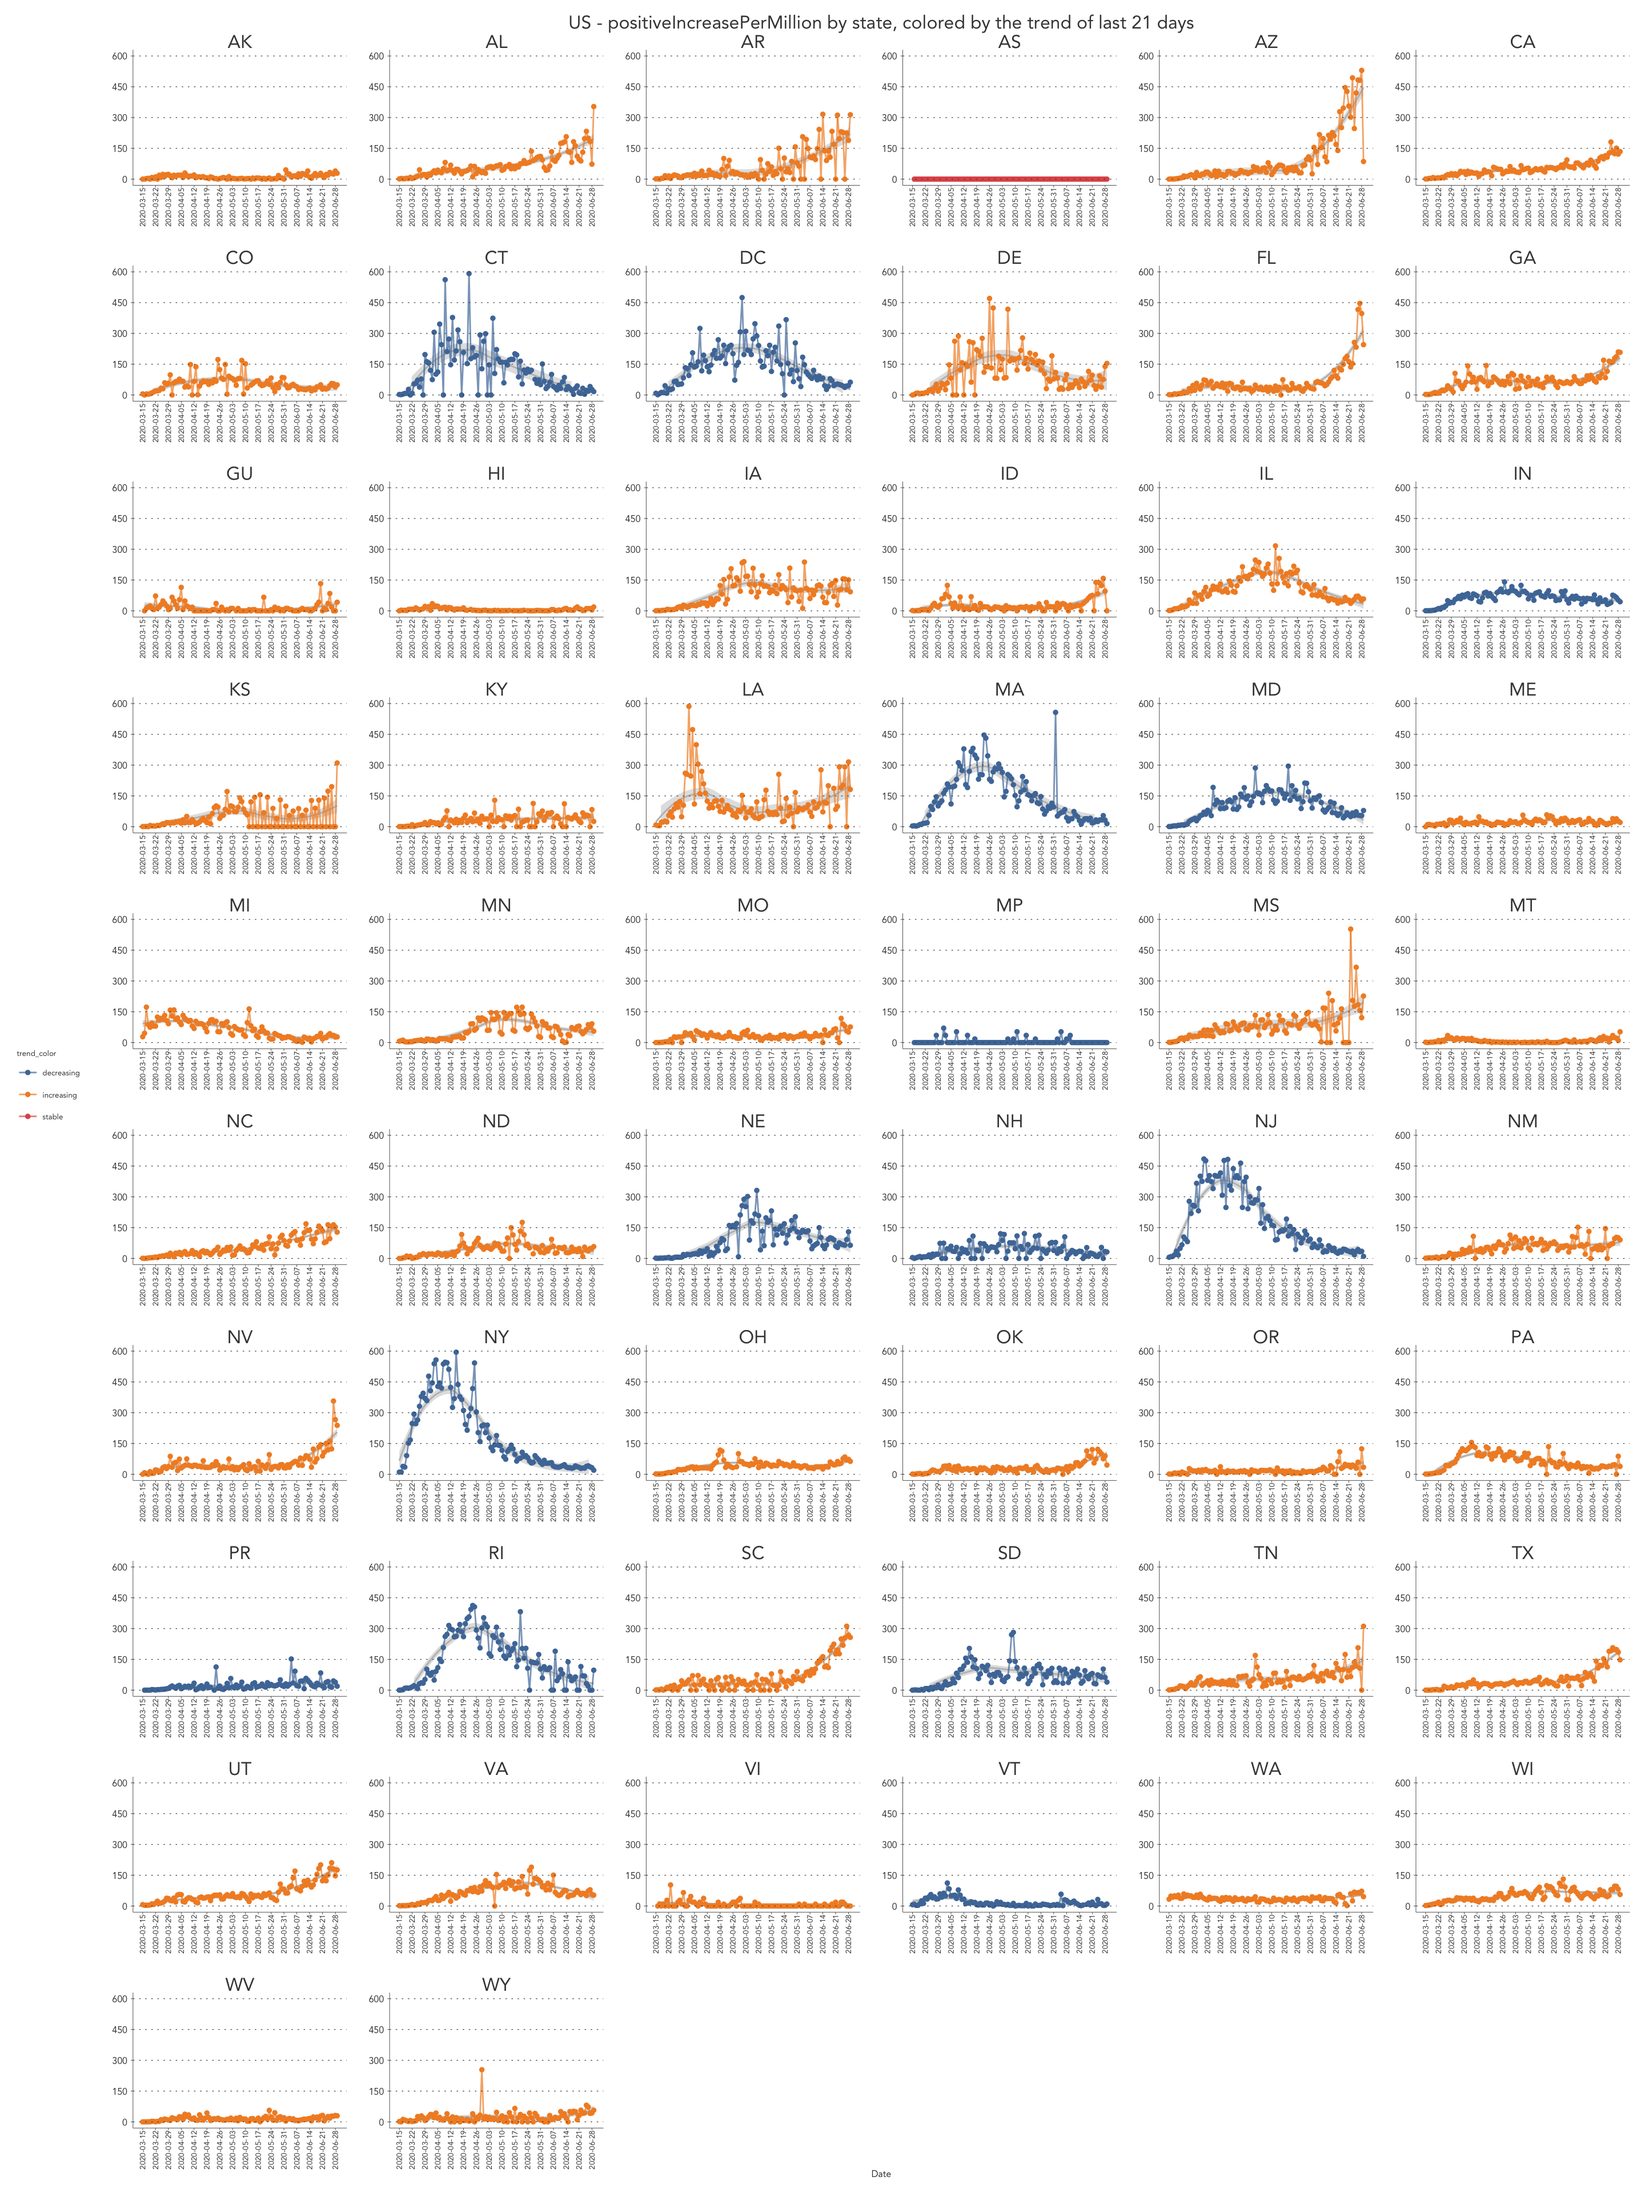
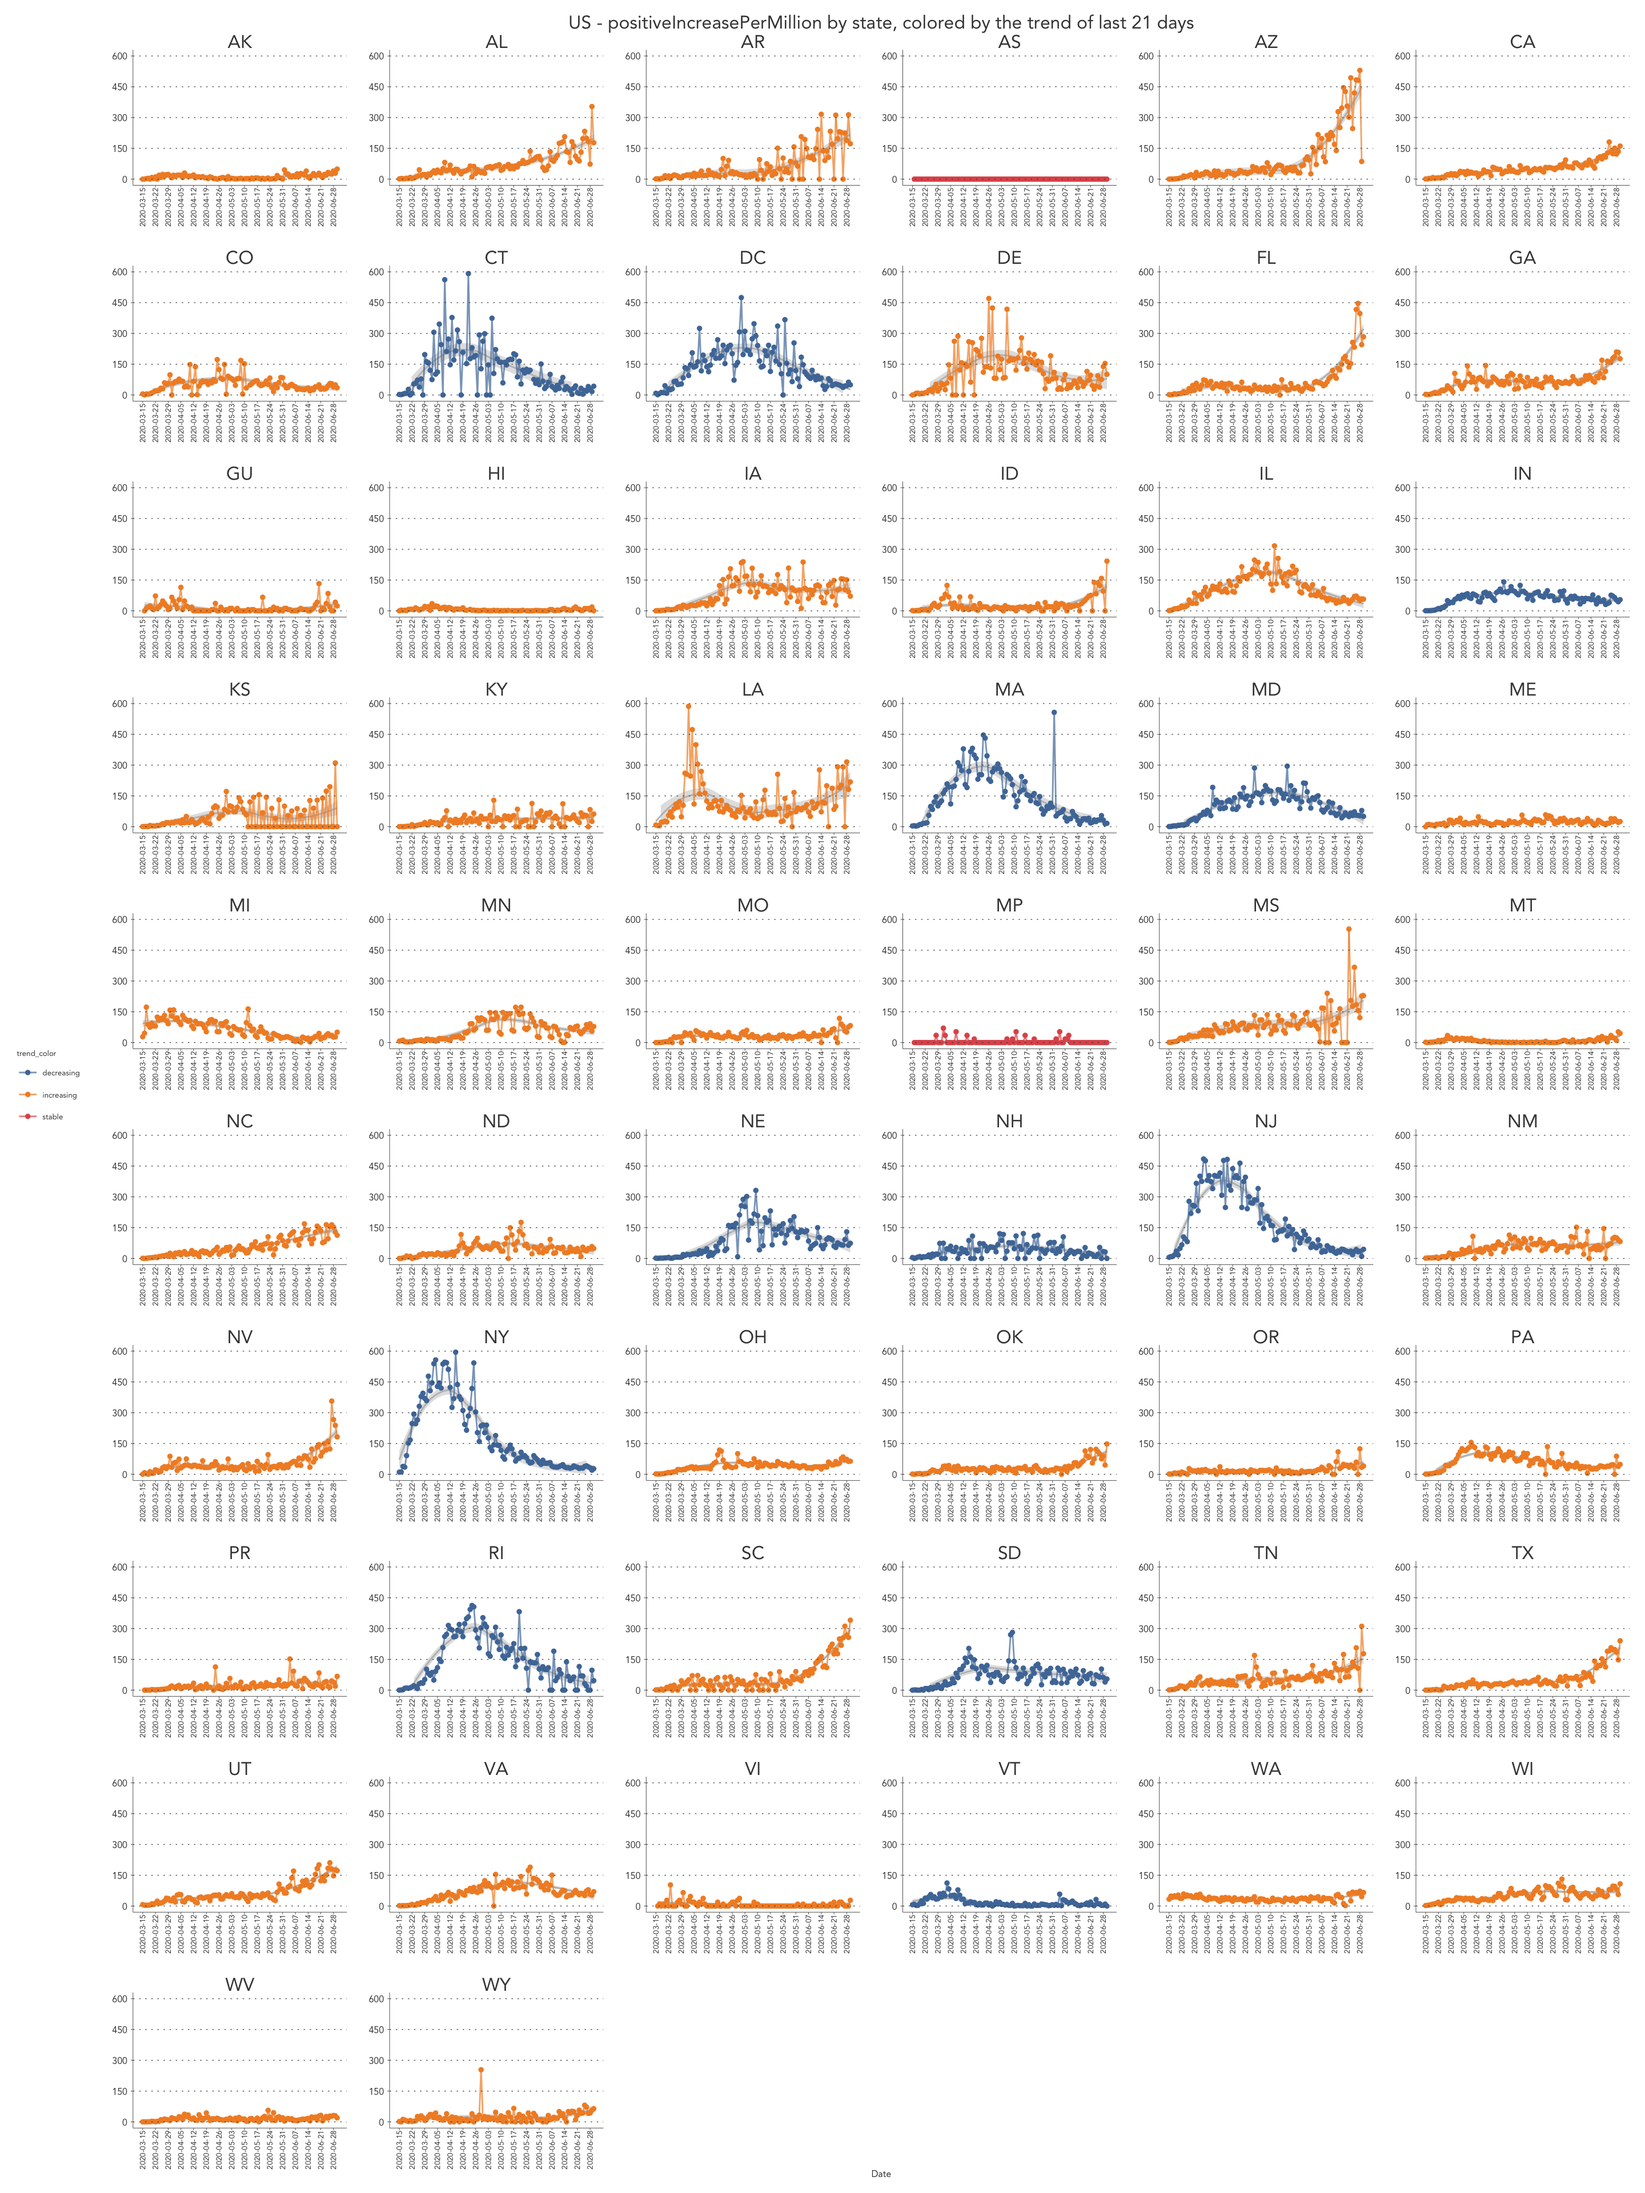
0630 up

diff --git a/covid19-vis.html b/covid19-vis.html
@@ -305,22 +305,22 @@ population
 <tbody>
 <tr>
 <td style="text-align:left;">
-2020-06-29
+2020-06-30
 </td>
 <td style="text-align:left;">
 AK
 </td>
 <td style="text-align:right;">
-904
+940
 </td>
 <td style="text-align:right;">
-107805
+111245
 </td>
 <td style="text-align:right;">
 0
 </td>
 <td style="text-align:right;">
-16
+18
 </td>
 <td style="text-align:right;">
 0
@@ -338,7 +338,7 @@ AK
 0
 </td>
 <td style="text-align:right;">
-525
+526
 </td>
 <td style="text-align:left;">
 A
@@ -362,7 +362,7 @@ A
 2020-06-29T00:00:00Z
 </td>
 <td style="text-align:right;">
-108709
+112185
 </td>
 <td style="text-align:right;">
 0
@@ -377,22 +377,22 @@ A
 2
 </td>
 <td style="text-align:right;">
-21
+36
 </td>
 <td style="text-align:right;">
-388
+3440
 </td>
 <td style="text-align:right;">
-108709
+112185
 </td>
 <td style="text-align:right;">
-108709
+112185
 </td>
 <td style="text-align:right;">
-409
+3476
 </td>
 <td style="text-align:right;">
-108709
+112185
 </td>
 <td style="text-align:right;">
 0
@@ -401,7 +401,7 @@ A
 0
 </td>
 <td style="text-align:left;">
-a86a3dc4bfbba3e423434858dd4e5230e6ba9753
+c5005ccb9df1aac9b5921115fc05931c3b67d41c
 </td>
 <td style="text-align:right;">
 0
@@ -427,37 +427,37 @@ a86a3dc4bfbba3e423434858dd4e5230e6ba9753
 </tr>
 <tr>
 <td style="text-align:left;">
-2020-06-29
+2020-06-30
 </td>
 <td style="text-align:left;">
 AL
 </td>
 <td style="text-align:right;">
-37175
+38045
 </td>
 <td style="text-align:right;">
-356118
-</td>
-<td style="text-align:right;">
-0
-</td>
-<td style="text-align:right;">
-715
-</td>
-<td style="text-align:right;">
-2725
+368607
 </td>
 <td style="text-align:right;">
 0
 </td>
 <td style="text-align:right;">
-801
+776
+</td>
+<td style="text-align:right;">
+2769
 </td>
 <td style="text-align:right;">
 0
 </td>
 <td style="text-align:right;">
-457
+806
+</td>
+<td style="text-align:right;">
+0
+</td>
+<td style="text-align:right;">
+458
 </td>
 <td style="text-align:right;">
 18866
@@ -466,22 +466,22 @@ AL
 B
 </td>
 <td style="text-align:left;">
-6/29/2020 11:00
+6/30/2020 11:00
 </td>
 <td style="text-align:left;">
-2020-06-29T11:00:00Z
+2020-06-30T11:00:00Z
 </td>
 <td style="text-align:left;">
-06/29 07:00
+06/30 07:00
 </td>
 <td style="text-align:right;">
-929
+950
 </td>
 <td style="text-align:right;">
-2725
+2769
 </td>
 <td style="text-align:left;">
-2020-06-29T11:00:00Z
+2020-06-30T11:00:00Z
 </td>
 <td style="text-align:right;">
 0
@@ -493,37 +493,37 @@ B
 0
 </td>
 <td style="text-align:right;">
-36682
+37536
 </td>
 <td style="text-align:right;">
 1
 </td>
 <td style="text-align:right;">
-1734
+870
 </td>
 <td style="text-align:right;">
-5279
+12489
 </td>
 <td style="text-align:right;">
-393293
+406652
 </td>
 <td style="text-align:right;">
-393293
+406652
 </td>
 <td style="text-align:right;">
-7013
+13359
 </td>
 <td style="text-align:right;">
-393293
+406652
 </td>
 <td style="text-align:right;">
-10
+21
 </td>
 <td style="text-align:right;">
-22
+44
 </td>
 <td style="text-align:left;">
-de21472ac462718d75201c8e93e01f28b9542e9f
+fdfdc3408c4025a5fe62edd82fc96917bbff72c9
 </td>
 <td style="text-align:right;">
 0
@@ -549,61 +549,61 @@ de21472ac462718d75201c8e93e01f28b9542e9f
 </tr>
 <tr>
 <td style="text-align:left;">
-2020-06-29
+2020-06-30
 </td>
 <td style="text-align:left;">
 AR
 </td>
 <td style="text-align:right;">
-20257
+20777
 </td>
 <td style="text-align:right;">
-282279
-</td>
-<td style="text-align:right;">
-0
-</td>
-<td style="text-align:right;">
-300
-</td>
-<td style="text-align:right;">
-1380
+290426
 </td>
 <td style="text-align:right;">
 0
 </td>
 <td style="text-align:right;">
+290
+</td>
+<td style="text-align:right;">
+1413
+</td>
+<td style="text-align:right;">
 0
 </td>
 <td style="text-align:right;">
-63
+0
 </td>
 <td style="text-align:right;">
-211
+67
 </td>
 <td style="text-align:right;">
-14066
+220
+</td>
+<td style="text-align:right;">
+14531
 </td>
 <td style="text-align:left;">
 A
 </td>
 <td style="text-align:left;">
-6/29/2020 14:36
+6/30/2020 15:16
 </td>
 <td style="text-align:left;">
-2020-06-29T14:36:00Z
+2020-06-30T15:16:00Z
 </td>
 <td style="text-align:left;">
-06/29 10:36
+06/30 11:16
 </td>
 <td style="text-align:right;">
-265
+270
 </td>
 <td style="text-align:right;">
-1380
+1413
 </td>
 <td style="text-align:left;">
-2020-06-29T14:36:00Z
+2020-06-30T15:16:00Z
 </td>
 <td style="text-align:right;">
 0
@@ -615,37 +615,37 @@ A
 0
 </td>
 <td style="text-align:right;">
-20257
+20777
 </td>
 <td style="text-align:right;">
 5
 </td>
 <td style="text-align:right;">
-947
+520
 </td>
 <td style="text-align:right;">
-10367
+8147
 </td>
 <td style="text-align:right;">
-302536
+311203
 </td>
 <td style="text-align:right;">
-302536
+311203
 </td>
 <td style="text-align:right;">
-11314
+8667
 </td>
 <td style="text-align:right;">
-302536
+311203
 </td>
 <td style="text-align:right;">
-6
+5
 </td>
 <td style="text-align:right;">
-7
+33
 </td>
 <td style="text-align:left;">
-6485f0b6af19d7d02d56b471d22c9095e38dd696
+17dcc91281212bb7a3d374b7c5b915d4e9a8f735
 </td>
 <td style="text-align:right;">
 0
